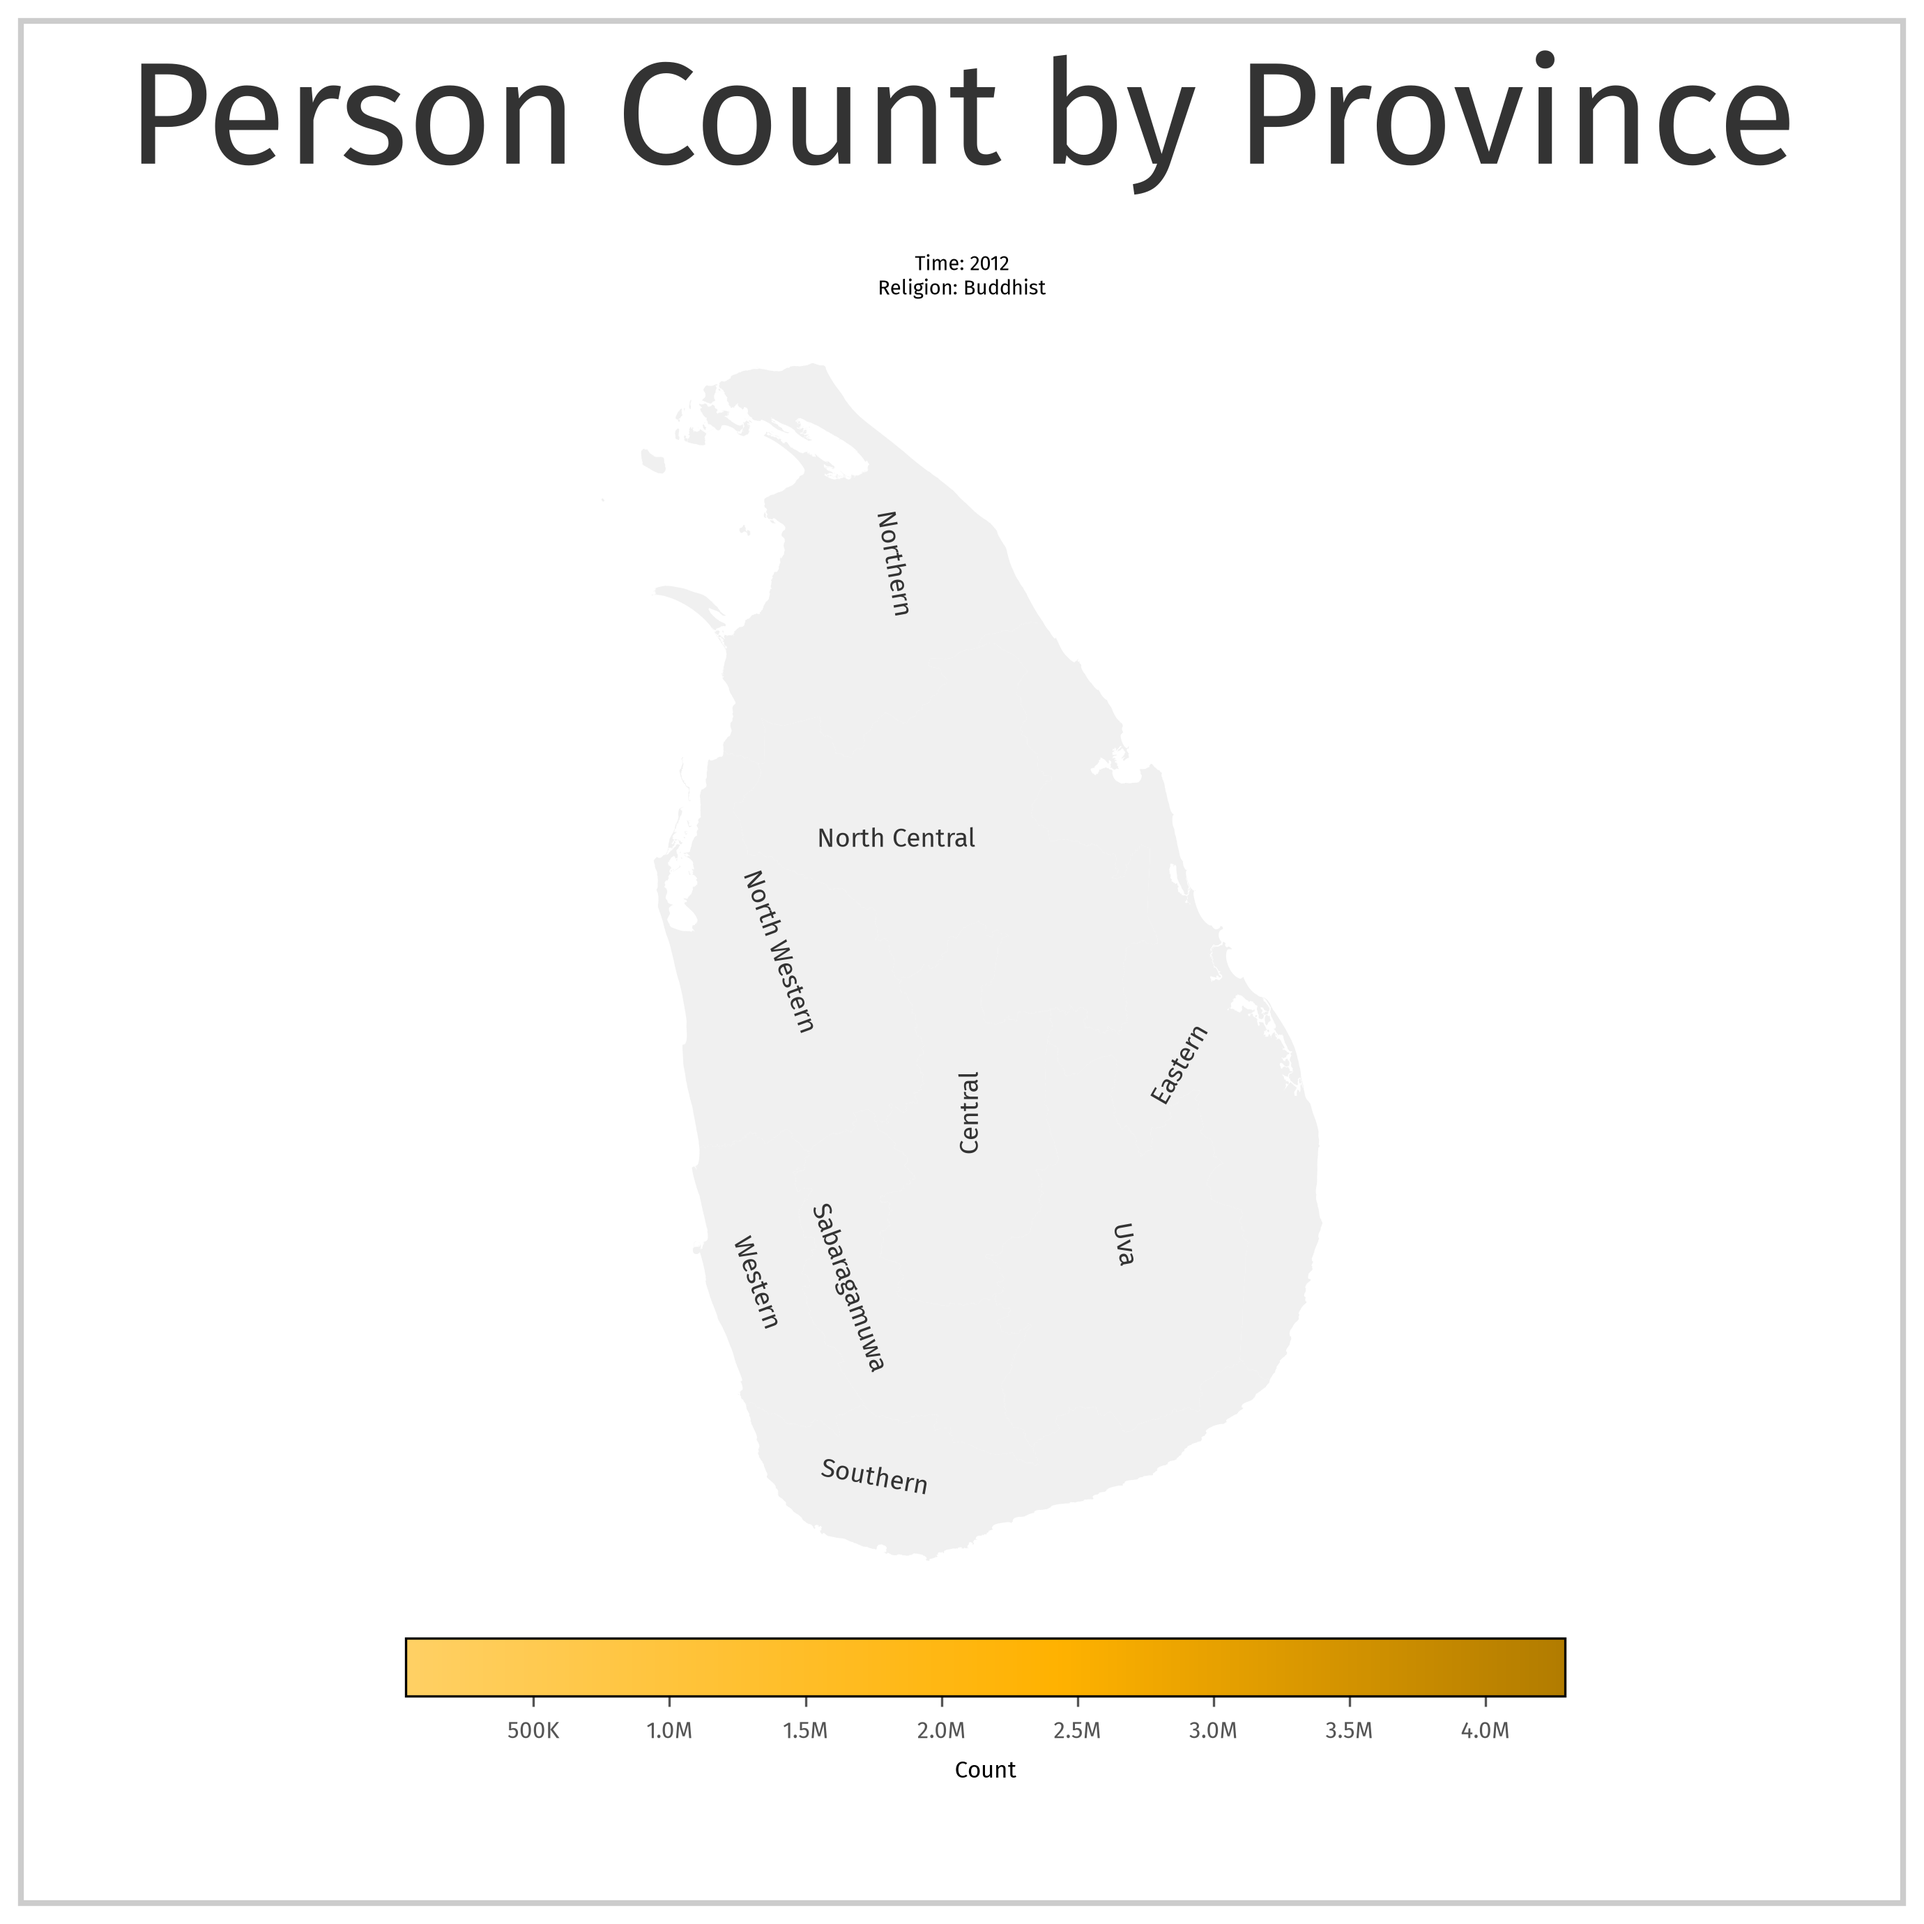
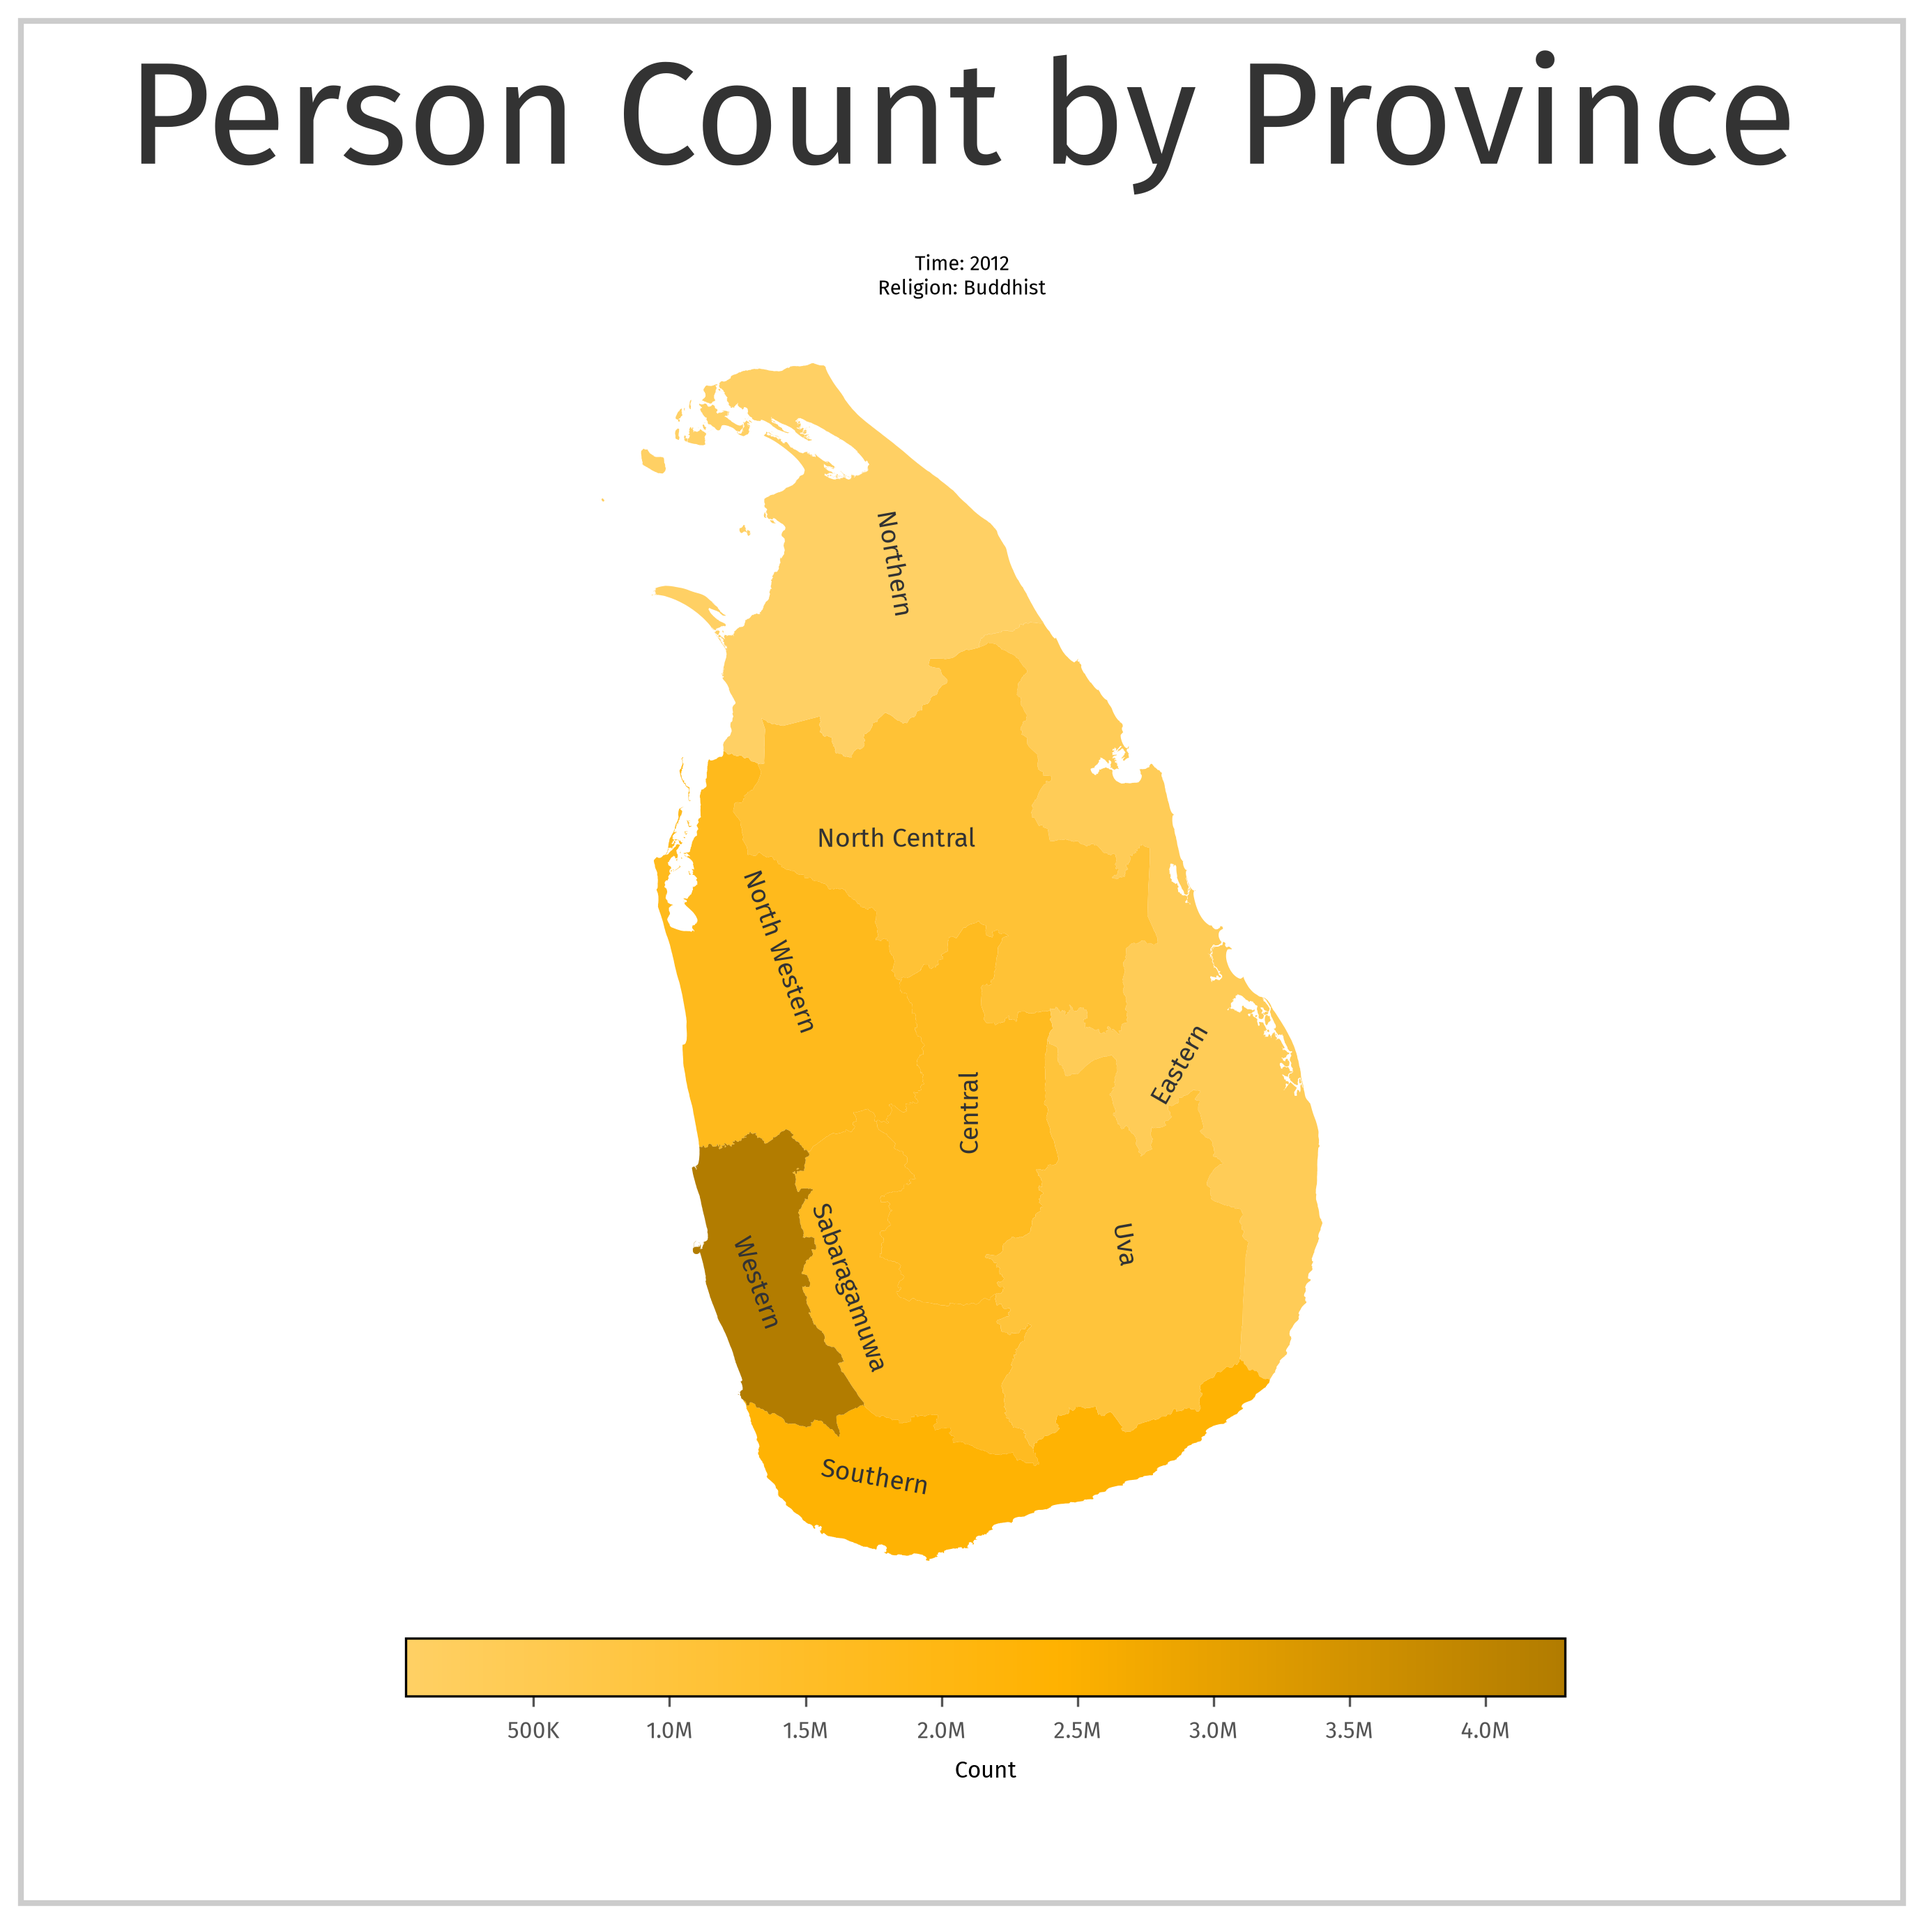
Enhance MapVisual: normalize region keys and improve region value lookup logic

Changed region(s): [[0.3428, 0.187, 0.6855, 0.8101]]

diff --git a/src/ds/visual/MapVisual.py b/src/ds/visual/MapVisual.py
@@ -22,6 +22,13 @@ IMAGE_DIR = "image"
 
 class MapVisual(Visual):
 
+    def _normalize_region_key(self, raw_value):
+        if raw_value is None:
+            return None
+        return (
+            str(raw_value).strip().lower().replace("-", "_").replace(" ", "_")
+        )
+
     def __init__(
         self,
         datumset,
@@ -37,9 +44,9 @@ class MapVisual(Visual):
 
     def _get_region_values(self):
         return {
-            datum.dim_idx[self.region_dim_key].get_value(): float(
-                datum.cell_idx[self.y_cell_key].get_value()
-            )
+            self._normalize_region_key(
+                datum.dim_idx[self.region_dim_key].get_value()
+            ): float(datum.cell_idx[self.y_cell_key].get_value())
             for datum in self.datumset
         }
 
@@ -108,11 +115,18 @@ class MapVisual(Visual):
 
     def _get_region_values_for(self, datumset):
         return {
-            datum.dim_idx[self.region_dim_key].get_value(): float(
-                datum.cell_idx[self.y_cell_key].get_value()
-            )
+            self._normalize_region_key(
+                datum.dim_idx[self.region_dim_key].get_value()
+            ): float(datum.cell_idx[self.y_cell_key].get_value())
             for datum in datumset
         }
+
+    def _lookup_region_value(self, row, region_values):
+        for raw_key in (row.get("region_id"), row.get("name")):
+            normalized_key = self._normalize_region_key(raw_key)
+            if normalized_key in region_values:
+                return region_values[normalized_key]
+        return None
 
     def _build_hsl_lightness_cmap(self, base_color):
         base_rgb = mcolors.to_rgb(base_color)
@@ -137,7 +151,10 @@ class MapVisual(Visual):
     def _plot_subfigure(self, fig, sub_ax, sub_datumset, vmin, vmax, cmap):
         region_values = self._get_region_values_for(sub_datumset)
         gdf = self._load_gdf().rename(columns={"id": "region_id"})
-        gdf["value"] = gdf["region_id"].map(region_values)
+        gdf["value"] = gdf.apply(
+            lambda row: self._lookup_region_value(row, region_values),
+            axis=1,
+        )
         gdf.plot(
             column="value",
             ax=sub_ax,
